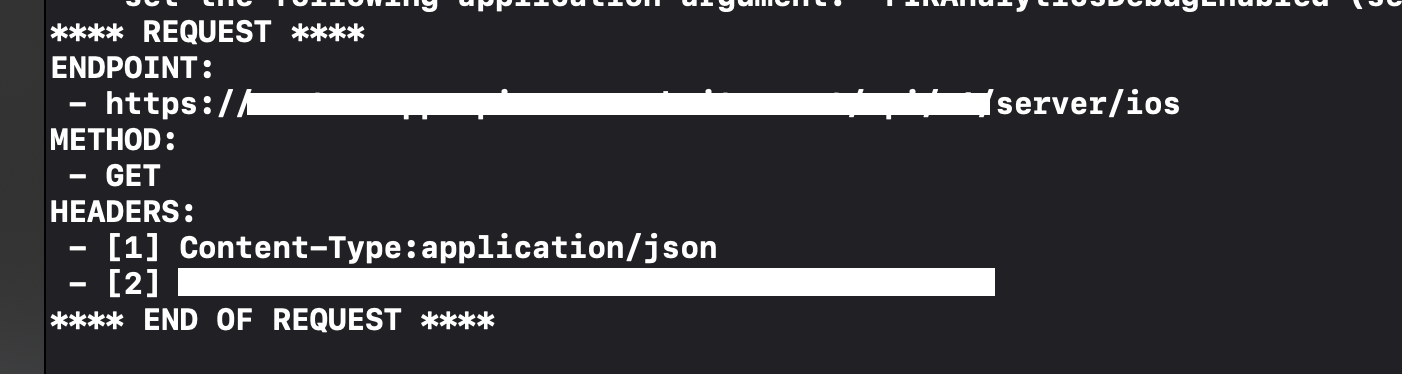
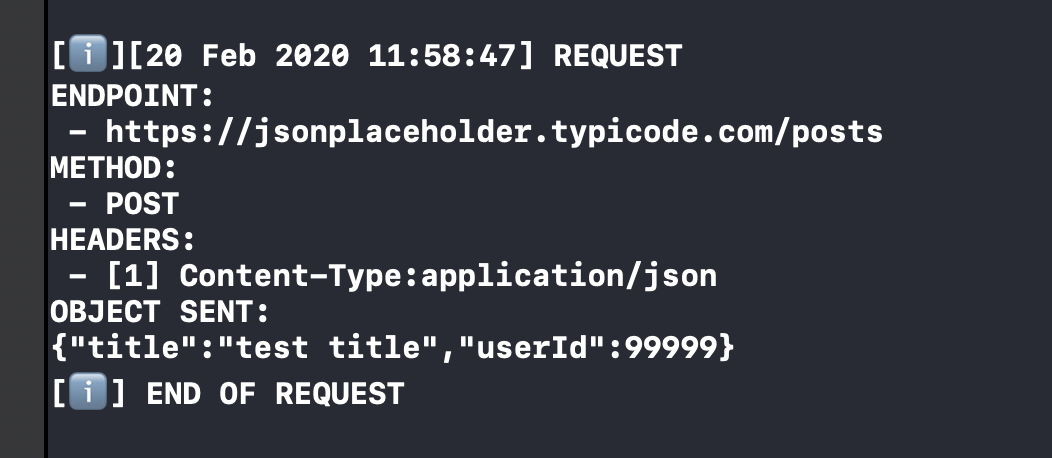
[DebugMode] Improved Logs and Readme images updated.

Changed region(s): [[0.0304, 0.0, 0.8517, 1.0], [0.6388, 0.0, 1.0, 0.0294]]

diff --git a/SimpleNetworking/SimpleNetworking/Source/Helpers/DebugMode.swift b/SimpleNetworking/SimpleNetworking/Source/Helpers/DebugMode.swift
@@ -13,7 +13,7 @@ struct DebugMode {
         
         guard SimpleNetworking.debugMode == .all || SimpleNetworking.debugMode == .onlyRequests else { return }
         
-        print("**** REQUEST ****")
+        print("[ℹ][\(getCurrentTime())] REQUEST")
         print("ENDPOINT:")
         print(" - " + (request.url?.absoluteString ?? ""))
         print("METHOD:")
@@ -28,7 +28,7 @@ struct DebugMode {
             print(dataToJSON(data: request.httpBody))
         }
         
-        print("**** END OF REQUEST ****")
+        print("[ℹ] END OF REQUEST")
         
         print("")
         print("")
@@ -40,7 +40,10 @@ struct DebugMode {
         guard SimpleNetworking.debugMode == .all || SimpleNetworking.debugMode == .onlyResponses,
             let urlResponse = response as? HTTPURLResponse else { return }
         
-        print("**** RESPONSE ****")
+        let isValidStatusCode = (200 ... 299 ~= urlResponse.statusCode)
+        let symbol = isValidStatusCode ? "✅" : "❌"
+        
+        print("[\(symbol)][\(getCurrentTime())] RESPONSE")
         print("ENDPOINT:")
         print("- " + (urlResponse.url?.absoluteString ?? ""))
         print("OBJECT:")
@@ -51,7 +54,7 @@ struct DebugMode {
         }
         print("STATUS CODE:")
         print(" - " + "\(urlResponse.statusCode)")
-        print("**** END OF RESPONSE ****")
+        print("[\(symbol)] END OF RESPONSE")
         
         print("")
         print("")
@@ -63,4 +66,12 @@ struct DebugMode {
         
         return (NSString(data: data, encoding: String.Encoding.utf8.rawValue) as String?) ?? ""
     }
+}
+
+private func getCurrentTime() -> String {
+    let formatter = DateFormatter()
+    formatter.dateStyle = .medium
+    formatter.timeStyle = .medium
+    
+    return formatter.string(from: Date())
 }

diff --git a/Example/Example/ViewController.swift b/Example/Example/ViewController.swift
@@ -35,7 +35,7 @@ class ViewController: UIViewController {
     override func viewDidLoad() {
         super.viewDidLoad()
         
-        SimpleNetworking.debugMode = .onlyRequests
+        SimpleNetworking.debugMode = .all
         
         getMyData()
         getDataWithError()
